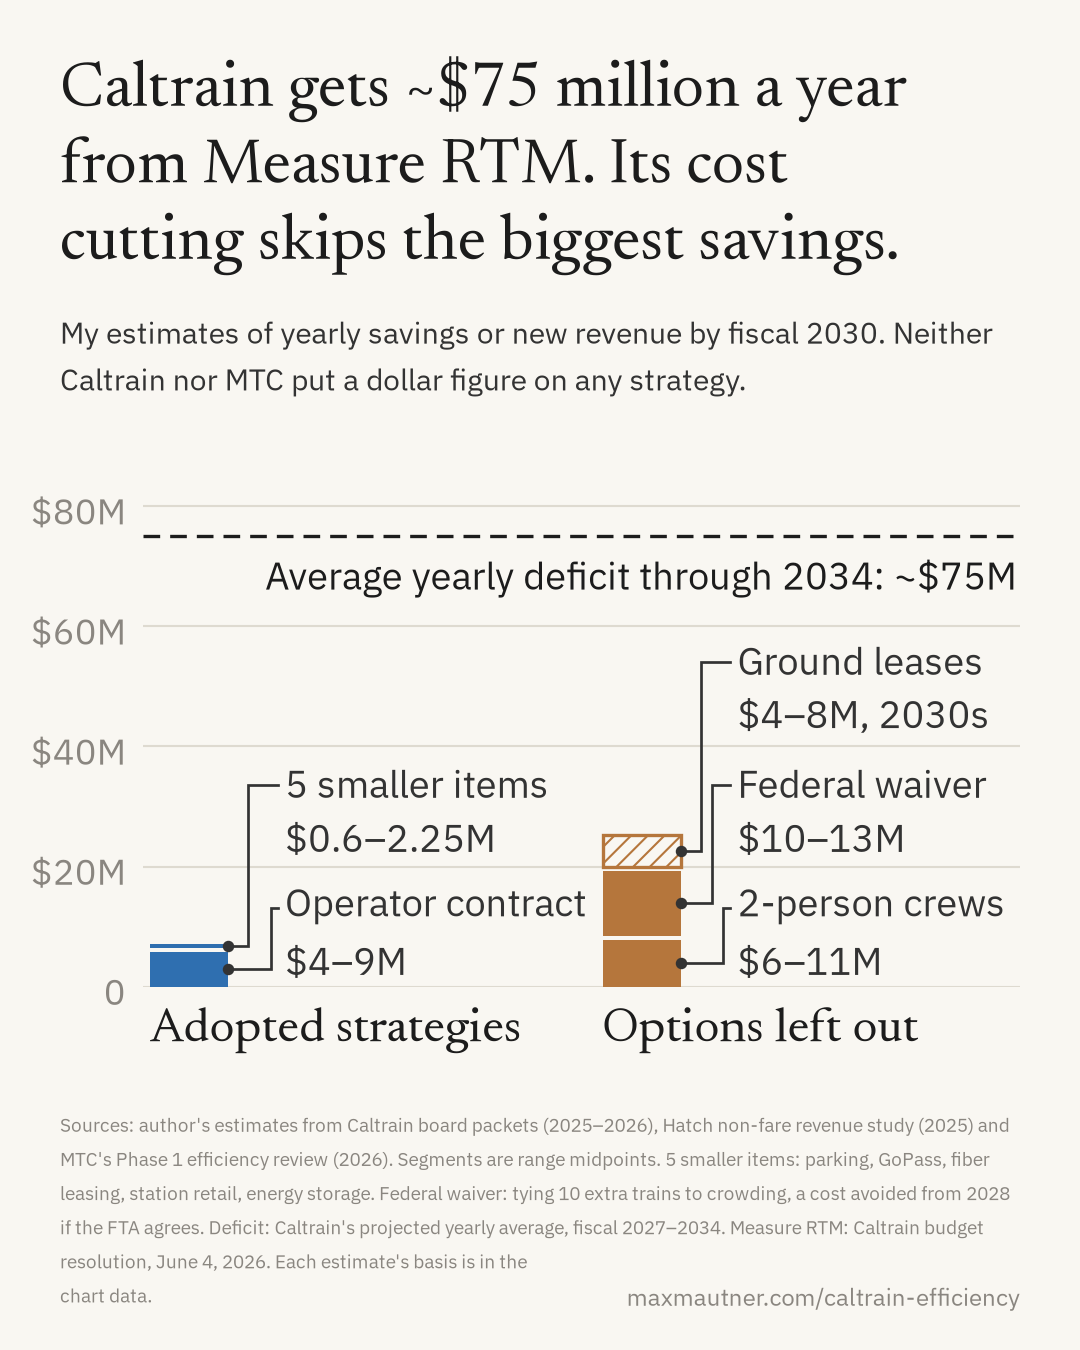
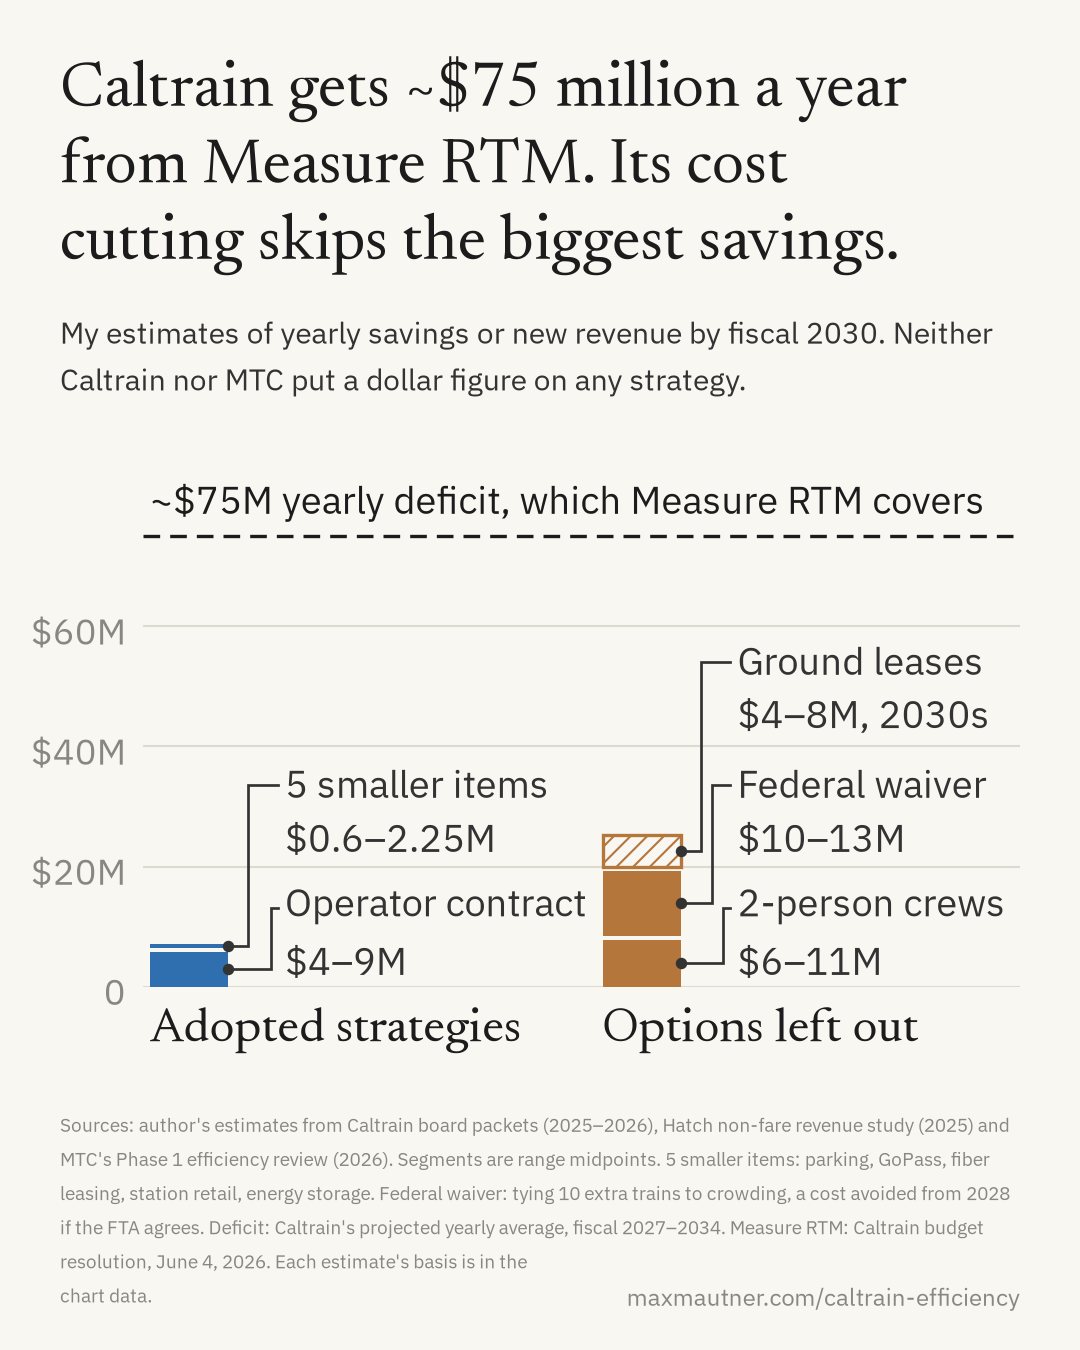
caltrain-efficiency: label the deficit line at its left end
A reader took a moment to work out the dashed line when its label sat at the far
right, below it. One line above the line's left end; drop the $80M gridline that
would cross it.

Changed region(s): [[0.1528, 0.3422, 0.9472, 0.4356], [0.0306, 0.3733, 0.1222, 0.4044]]

diff --git a/2026-11-06-caltrain-efficiency/charts/charts.py b/2026-11-06-caltrain-efficiency/charts/charts.py
@@ -151,13 +151,12 @@ def estimates(fmt_name, name):
     column(x1, lx1, adopted)
     column(x2, lx2, left_out)
     ax.axhline(DEFICIT, color=INK, lw=1.6, ls=(0, (5, 3)), zorder=3)
-    if blog:
-        ax.text(w_in - 0.02, DEFICIT - 0.12 * per_in, f"Caltrain's average yearly deficit\nthrough 2034: ~${DEFICIT}M, "
-                "about\nwhat Measure RTM gives it", ha="right", va="top", color=INK, fontsize=SIZE["deficit"] * k,
-                linespacing=1.2)
-    else:                                  # the social plot is short: 1 line
-        ax.text(w_in - 0.02, DEFICIT - 0.1 * per_in, f"Average yearly deficit through 2034: ~${DEFICIT}M",
-                ha="right", va="top", color=INK, fontsize=SIZE["deficit"] * k)
+    # the line's label sits at its left end, just above it, so readers learn what the line is as they meet it
+    # (a reader, John, Nov. 2026, took a moment to read the line when its label was at the far right, below it)
+    line_label = f"~${DEFICIT}M yearly deficit, which Measure RTM covers"
+    line_fp = font("sans", SIZE["deficit"] * k)
+    assert 0.05 + text_width(line_label, line_fp) <= w_in, "deficit label overflows"
+    ax.text(0.05, DEFICIT + 0.08 * per_in, line_label, ha="left", va="bottom", color=INK, fontproperties=line_fp)
 
     # column names left-aligned with each column's left edge
     ax.set_xticks([])
@@ -165,8 +164,8 @@ def estimates(fmt_name, name):
         ax.annotate(label, xy=(x - col_w / 2, 0), xycoords=("data", "axes fraction"), xytext=(0, -10 * k),
                     textcoords="offset points", ha="left", va="top", color=INK,
                     fontproperties=font("serif", SIZE["column"] * k))
-    ax.set_yticks(range(0, 81, 20))
-    ax.set_yticklabels(["0"] + [f"${t}M" for t in range(20, 81, 20)])
+    ax.set_yticks(range(0, 61, 20))       # no $80M line: it would run through the deficit label
+    ax.set_yticklabels(["0"] + [f"${t}M" for t in range(20, 61, 20)])
     p.save(OUT / name)
 
 
